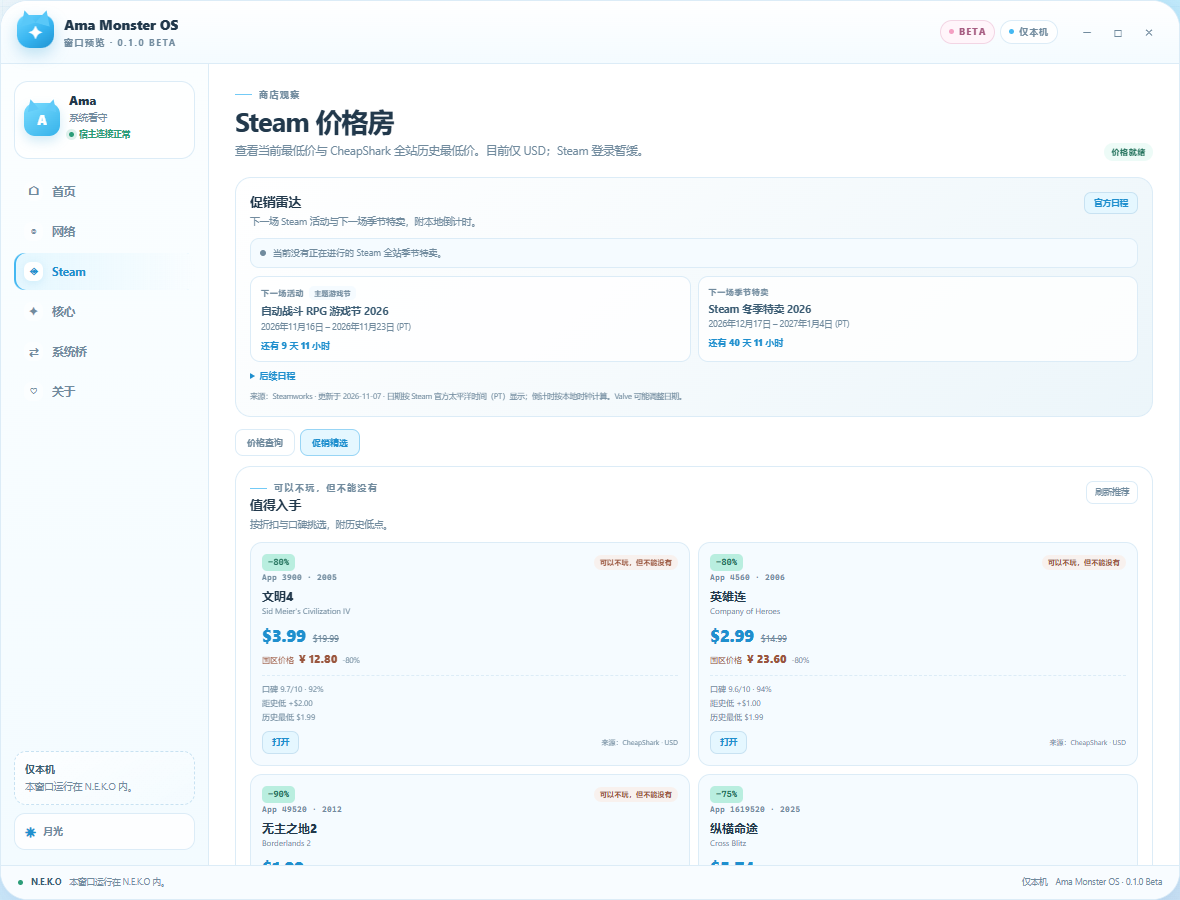
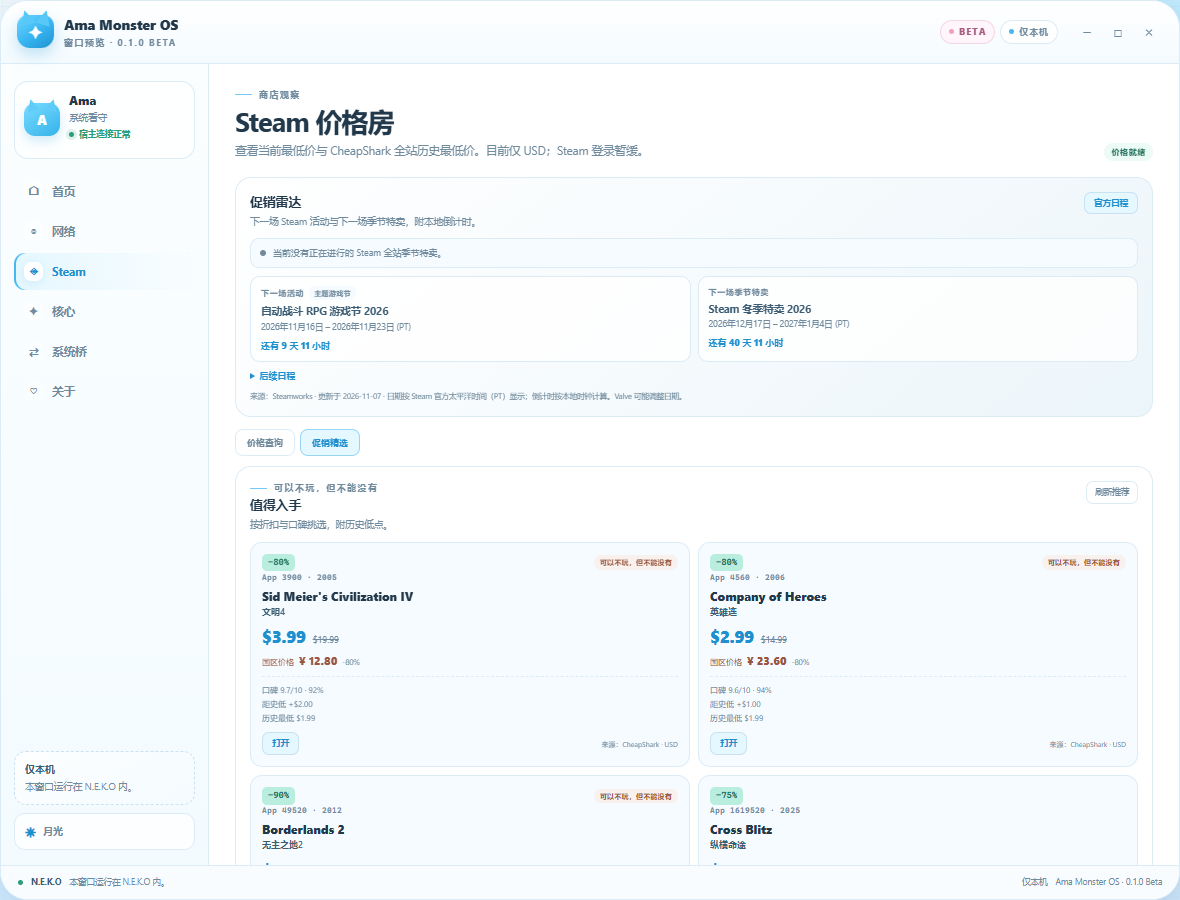
fix: show English title above Chinese title

Changed region(s): [[0.2136, 0.6533, 0.5797, 0.9644], [0.5797, 0.6533, 0.9458, 0.9644]]

diff --git a/ui/panel.tsx b/ui/panel.tsx
@@ -932,7 +932,7 @@ const STYLES = `
 .ama-deal-discount { flex: 0 0 auto; padding: 2px 6px; border-radius: 5px; background: var(--mint); color: var(--mint-ink); font-family: ui-monospace, "Cascadia Code", Consolas, monospace; font-size: 9px; font-weight: 900; }
 .ama-hoard { display: inline-flex; align-items: center; padding: 2px 6px; border-radius: 999px; background: color-mix(in srgb, var(--peach) 30%, transparent); color: var(--peach-ink); font-size: 7px; font-weight: 800; letter-spacing: .03em; white-space: nowrap; }
 .ama-deal-title { margin: 4px 0 0; color: var(--ink); font-size: 12px; font-weight: 850; line-height: 1.35; overflow-wrap: anywhere; }
-.ama-deal-title-alt { margin-top: 1px; color: var(--muted); font-size: 8px; overflow-wrap: anywhere; }
+.ama-deal-title-alt { margin-top: 1px; color: var(--ink-soft); font-size: 9px; font-weight: 600; overflow-wrap: anywhere; }
 .ama-deal-price-row { display: flex; align-items: baseline; gap: 7px; margin-top: 6px; }
 .ama-deal-price-row strong { color: var(--sky-deep); font-size: 17px; font-weight: 900; letter-spacing: -.03em; }
 .ama-deal-price-row s { color: var(--muted); font-size: 9px; }
@@ -948,7 +948,7 @@ const STYLES = `
 .ama-free-top { display: flex; align-items: center; justify-content: space-between; gap: 5px; }
 .ama-free-badge { padding: 2px 6px; border-radius: 5px; background: color-mix(in srgb, var(--mint) 25%, transparent); color: var(--mint-ink); font-size: 7px; font-weight: 900; letter-spacing: .08em; }
 .ama-free-title { margin: 5px 0 0; color: var(--ink-soft); font-size: 10px; font-weight: 800; line-height: 1.35; overflow-wrap: anywhere; }
-.ama-free-title-alt { margin-top: 1px; color: var(--muted); font-size: 7.5px; overflow-wrap: anywhere; }
+.ama-free-title-alt { margin-top: 1px; color: var(--ink-soft); font-size: 8.5px; font-weight: 600; overflow-wrap: anywhere; }
 .ama-free-actions { margin-top: 7px; }
 .ama-steam-account {
   display: flex;
@@ -972,7 +972,7 @@ const STYLES = `
 .ama-steam-head { display: flex; align-items: flex-start; justify-content: space-between; gap: 8px; }
 .ama-steam-app { color: var(--muted); font-family: ui-monospace, "Cascadia Code", Consolas, monospace; font-size: 8px; font-weight: 700; letter-spacing: .04em; }
 .ama-steam-title { margin: 3px 0 0; font-size: 13px; font-weight: 850; line-height: 1.35; overflow-wrap: anywhere; }
-.ama-steam-title-alt { margin-top: 1px; color: var(--muted); font-size: 8px; overflow-wrap: anywhere; }
+.ama-steam-title-alt { margin-top: 1px; color: var(--ink-soft); font-size: 10px; font-weight: 600; overflow-wrap: anywhere; }
 .ama-steam-low { flex: 0 0 auto; padding: 3px 7px; border-radius: 999px; background: var(--panel-2); color: var(--muted); font-size: 8px; font-weight: 850; letter-spacing: .06em; text-transform: uppercase; }
 .ama-steam-low.is-low { background: color-mix(in srgb, var(--mint) 30%, transparent); color: var(--mint-ink); }
 .ama-steam-prices { display: grid; grid-template-columns: repeat(4, minmax(0, 1fr)); gap: 6px; margin-top: 11px; }
@@ -2132,8 +2132,8 @@ export default function AmaMonsterOsPanel(props: PluginSurfaceProps<ShellState>)
                 <div className="ama-steam-head">
                   <div>
                     <div className="ama-steam-app">{tr("steam.appId", "App")} {game.steam_app_id || "—"}</div>
-                    <h3 className="ama-steam-title">{game.title_cn || game.title || "—"}</h3>
-                    {game.title_cn ? <div className="ama-steam-title-alt">{game.title || ""}</div> : null}
+                    <h3 className="ama-steam-title">{game.title || "—"}</h3>
+                    {game.title_cn ? <div className="ama-steam-title-alt">{game.title_cn}</div> : null}
                   </div>
                   <span className={`ama-steam-low${isLow ? " is-low" : ""}`}>
                     {isLow ? tr("steam.atLow", "At the low") : tr("steam.aboveLow", "Above the low")}
@@ -2235,8 +2235,8 @@ export default function AmaMonsterOsPanel(props: PluginSurfaceProps<ShellState>)
                         {deal.hoard_worthy ? <span className="ama-hoard">{tr("steam.hoard", "Can skip playing; can't skip owning.")}</span> : null}
                       </div>
                       <div className="ama-steam-app">App {deal.steam_app_id || "—"}{releaseYear ? ` · ${releaseYear}` : ""}</div>
-                      <h3 className="ama-deal-title">{deal.title_cn || deal.title || "—"}</h3>
-                      {deal.title_cn ? <div className="ama-deal-title-alt">{deal.title || ""}</div> : null}
+                      <h3 className="ama-deal-title">{deal.title || "—"}</h3>
+                      {deal.title_cn ? <div className="ama-deal-title-alt">{deal.title_cn}</div> : null}
                       <div className="ama-deal-price-row">
                         <strong>{usd(current.price)}</strong>
                         <s>{usd(current.retail_price)}</s>
@@ -2282,8 +2282,8 @@ export default function AmaMonsterOsPanel(props: PluginSurfaceProps<ShellState>)
                     <span className="ama-free-badge">{tr("steam.free.badge", "FREE")}</span>
                     <span className="ama-steam-app">App {game.app_id || "—"}</span>
                   </div>
-                  <h3 className="ama-free-title">{game.title_cn || game.title || "—"}</h3>
-                  {game.title_cn ? <div className="ama-free-title-alt">{game.title || ""}</div> : null}
+                  <h3 className="ama-free-title">{game.title || "—"}</h3>
+                  {game.title_cn ? <div className="ama-free-title-alt">{game.title_cn}</div> : null}
                   <div className="ama-free-actions">
                     {isHttpUrl(game.store_url) ? (
                       <FileDownload href={String(game.store_url)} label={tr("web.open", "Open")} className="ama-web-open" />

diff --git a/DESIGN.md b/DESIGN.md
@@ -25,7 +25,7 @@ from the first version.
 - A Web room that performs live internet searches, shows sanitized results, and opens result links through the Hosted UI external-open bridge.
 - A Steam price room using CheapShark for global current lowest price, all-time low, low date, gap, and discount; USD only for the global data.
 - A Steam China current-price lookup from the official Steam Store API (`cc=cn`, CNY). It is explicitly current, not a CN historical low.
-- A Steam sale-picks tab with high-discount, well-rated games, historical lows, CN prices, and Chinese titles with English originals underneath.
+- A Steam sale-picks tab with high-discount, well-rated games, historical lows, CN prices, and Chinese titles shown underneath the English original.
 - A curated Chinese-title map for older Steam games whose official `l=schinese` name remains English.
 - A curated, versioned free-to-play shelf with fixed Steam store links.
 - A versioned Steam sale calendar snapshot sourced from Steamworks, with current/next event, next seasonal sale, local countdowns, and an official schedule link.

diff --git a/docs/system-contract.md b/docs/system-contract.md
@@ -169,8 +169,8 @@ Rules:
 - The `cn` object is the **current** Steam China store price in CNY from the
   official `appdetails` API (`cc=cn`). It is not a CN historical low.
 - `title_cn` prefers a Steam `l=schinese` name containing CJK; for older English-
-  only names a curated alias may be used. Keep `title` as the canonical English
-  name for matching and display it underneath the Chinese title.
+  only names a curated alias may be used. The UI shows the English `title` on
+  top and the Chinese title directly underneath.
 - The all-time low is CheapShark's cross-store record. Keep that attribution.
 - Steam account linking is out of scope for this method. It is the reserved
   `steam.account` seam and must never store a password.

diff --git a/docs/quickstart.md b/docs/quickstart.md
@@ -43,7 +43,8 @@ Steam 房间顶部有两个标签页：
 
 - 折扣至少 **40%**，CheapShark 口碑至少 **7/10**
 - 取前 6 款，补全历史最低价、**Steam 国区当前价（CNY）**和**中文名**
-- 中文名优先使用 Steam 官方简体中文名；老游戏官方名仍为英文时，使用精选译名回退，并在下方保留英文原名
+- 中文名优先使用 Steam 官方简体中文名；老游戏官方名仍为英文时，使用精选译名回退
+- 卡片显示顺序：**上方英文游戏原名，下方中文名**
 - 满足 80%+ 折扣、≤ US$5 或处于史低时，标记 **“可以不玩，但不能没有”**
 - 这是编辑筛选，不是付费推广
 

diff --git a/README.md b/README.md
@@ -109,8 +109,9 @@ picks, not paid placements.
 
 Chinese titles prefer the official Steam `l=schinese` name. Older games whose
 Steam name stays English use a small curated alias map (for example
-`Borderlands 2` → `无主之地2`, `Sid Meier's Civilization IV` → `文明4`), with the
-English title kept underneath for verification.
+`Borderlands 2` → `无主之地2`, `Sid Meier's Civilization IV` → `文明4`). The
+English original is always the main title, with the Chinese name directly
+underneath.
 
 The free shelf lists six **permanently free-to-play** titles with fixed Steam
 store links. It is a versioned snapshot (updated **2026-11-07**), not a
